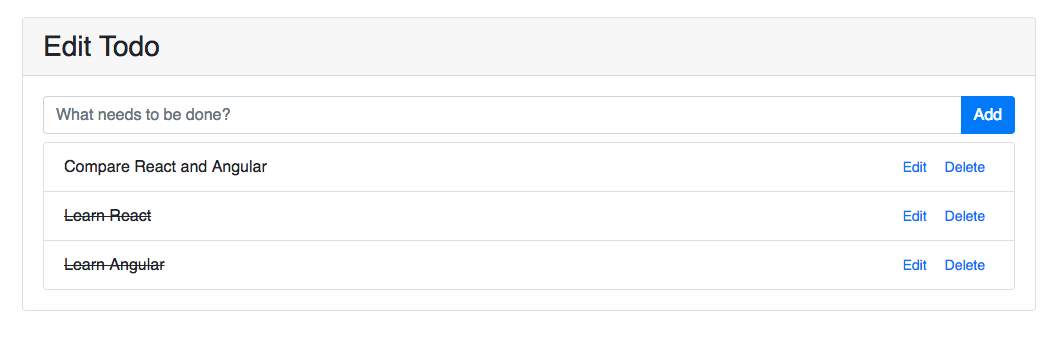
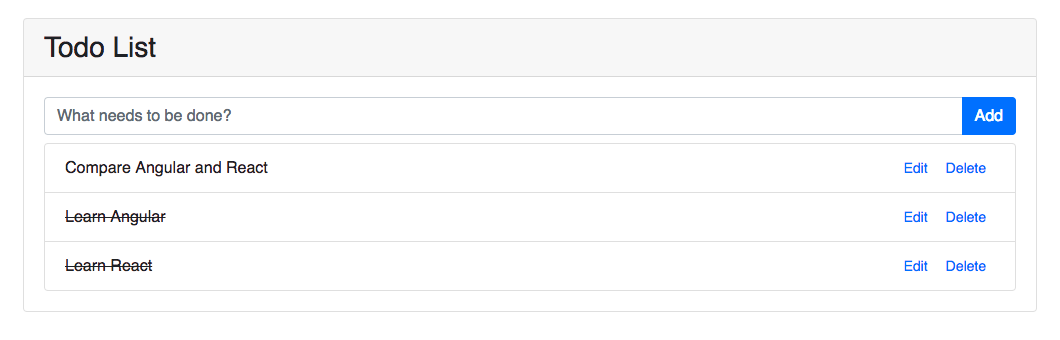
Fix a bug in react routing examples for displaying page title

diff --git a/week04/react-router-example/src/App.js b/week04/react-router-example/src/App.js
@@ -9,7 +9,7 @@ class App extends Component {
       <div className="container">
         <div className="card m-5">
           <h3 className="card-header">
-            {this.props.location.pathname === '/' ? 'Todo List' : 'Edit Todo'}
+            {this.props.location.pathname === '/todo-list' ? 'Todo List' : 'Edit Todo'}
           </h3>
           <Switch>
             <Route exact path='/todo-list' component={TodoList}/>
